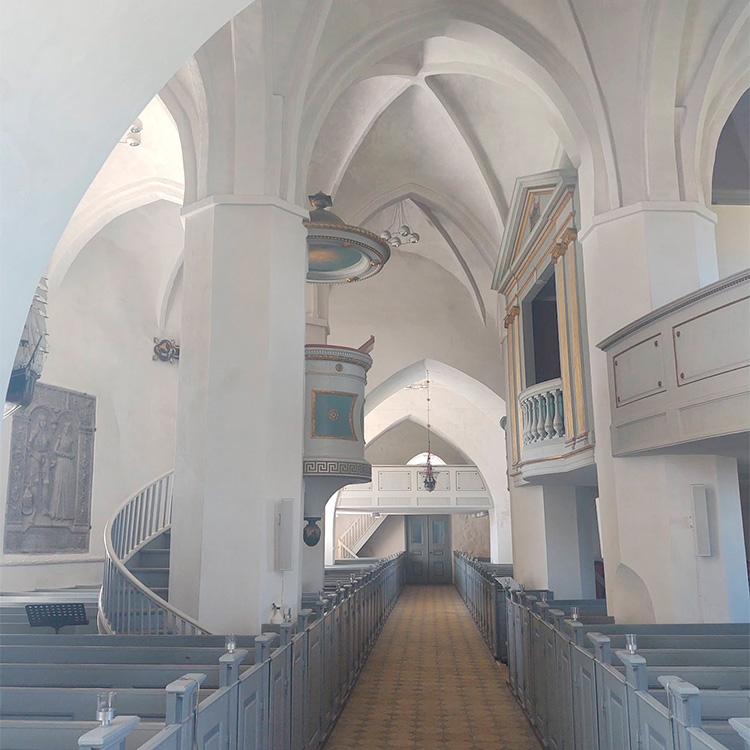
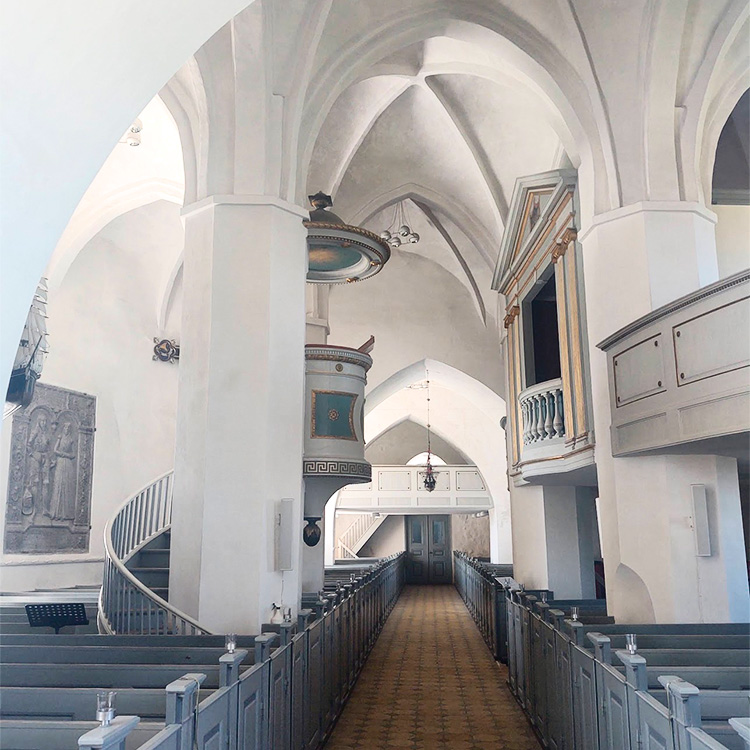
Fik lige redigeret mine billeder så de er lidt flottere - selvom det bare er tlf billeder

diff --git a/index.html b/index.html
@@ -34,7 +34,7 @@
             </section>
 
             <section>
-                <a href="bygningsfredning.html"><img src="images/haagerup_kirke500px.jpg" alt="kulturarv_kirker_bygningsfredning_restaurering"></a>
+                <a href="bygningsfredning.html"><img src="images/haagerupkirke500px.jpg" alt="kulturarv_kirker_bygningsfredning_restaurering"></a>
                 <a class="emnebox" href="bygningsfredning.html">NICE TO KNOW</a>
                 <h2>Bygningsbevaring</h2>
                 <h3>Fem hurtige om bygningsfredning og bevaring af bygninger og bymiljøer i Danmark </h3>
@@ -59,7 +59,7 @@
 
         <div class="kort">
             <section>
-                <img src="images/aarhusø.jpg" alt="arkitektur_bygning_kulturarv_aarhus"> <!--link-->
+                <img src="images/aarhusø500px.jpg" alt="arkitektur_bygning_kulturarv_aarhus"> <!--link-->
                 <a class="emnebox" href="">DEBAT</a> <!--link-->
                 <h2>Aarhus Ø - øjnbæ eller arkitektonisk kulturarv?</h2>
                 <h3>et nye hus er tegnet af BIG står med sin markante profil som et ikonisk nyt pejlemærke for byen og bydelen Aarhus Ø ved havnen<h3>

diff --git a/bygningsfredning.html b/bygningsfredning.html
@@ -32,11 +32,11 @@
             <h1>Fem hurtige om bevaring og fredning af bygninger i Danmark</h1>
             <br>
             <h4 class="forfatter">NINA LETH MØLLER</h4>
-            <div class="streg">________________________________________________________________________________________________</div>
+            <div class="streg">____________________________________________________________________________________</div>
         </section>
 
-        <section class="artikeltext">
-            <img class="billedemedtext" src="images/haagerupkirke750px.jpg" alt="middelalder_arkitektur_bygning_kulturarv_restaurering">
+        <section class="artikeltext"> <!--hvordan bruger jeg srcset /picture-->
+            <img class="billedemedtext" src="images/haagerup650px.jpg" alt="middelalder_arkitektur_bygning_kulturarv_restaurering">
             <p class="billedtekst">Foto: Nina Leth Møller 2020</p>
         </section>
         <br>

diff --git a/nicetoknow.html b/nicetoknow.html
@@ -35,7 +35,7 @@
 
         <div class="kort">
             <section>
-                <a href="bygningsfredning.html"><img src="images/haagerup_kirke500px.jpg" alt="kulturarv_kirker_bygningsfredning_restaurering"></a>
+                <a href="bygningsfredning.html"><img src="images/haagerupkirke500px.jpg" alt="kulturarv_kirker_bygningsfredning_restaurering"></a>
                 <h2>Bygningsbevaring</h2>
                 <h3>Fem hurtige om bygningsfredning og bevaring af bygninger og bymiljøer i Danmark </h3>
                 <h4>NINA LETH MØLLER</h4>

diff --git a/styles.css b/styles.css
@@ -203,7 +203,7 @@ a{
 }
 
 .artikeltext h4{
-    font-size: large;
+    font-size: larger;
     text-align: left;
 }
 
@@ -217,7 +217,6 @@ a{
 
 .forfatter{
     text-align: right;
-    padding-right: 30px;
 }
 
 
@@ -271,7 +270,6 @@ a{
 .faktaboks ul{
     list-style: none;
     font-family: 'PT serif', serif;
-    font-size: large;
 }
 
 li a{
